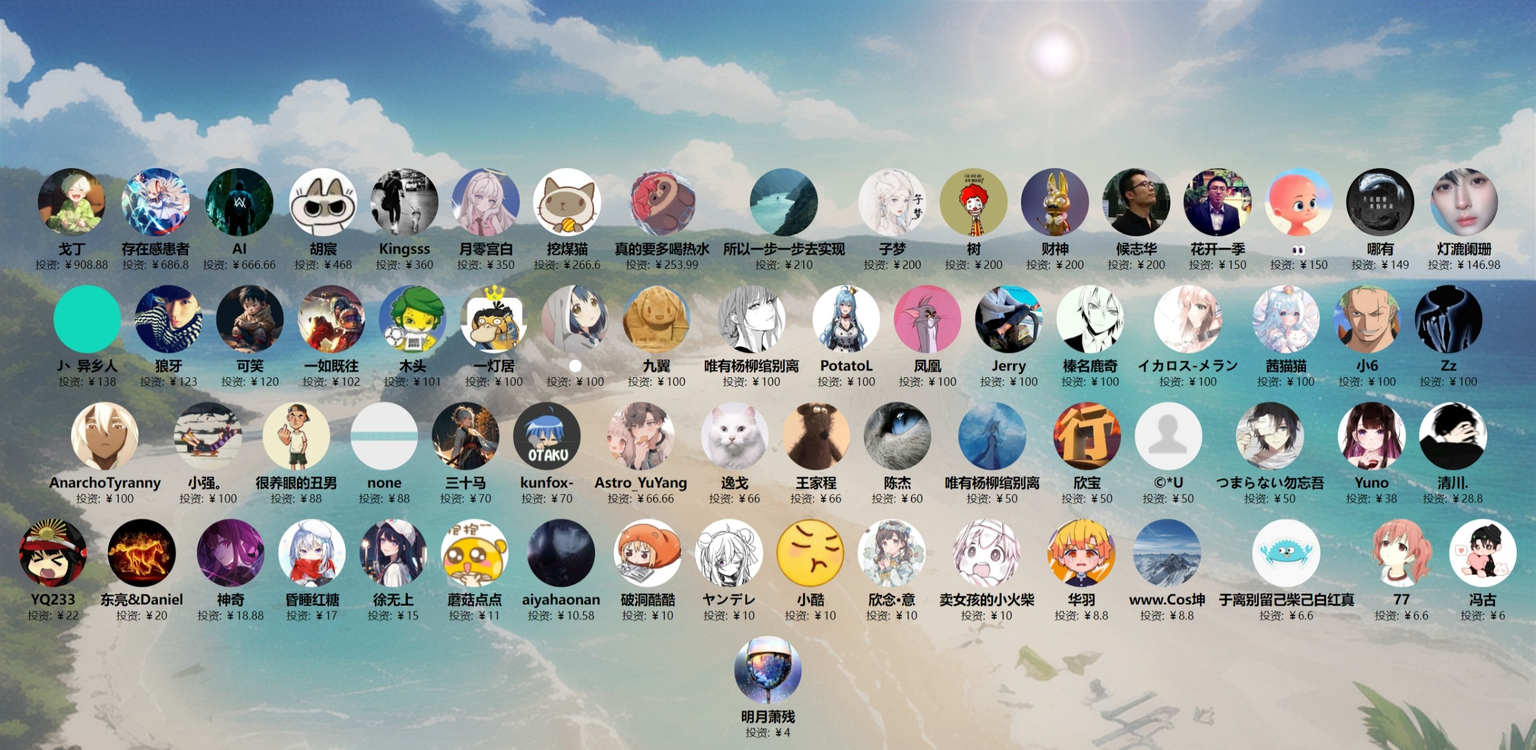
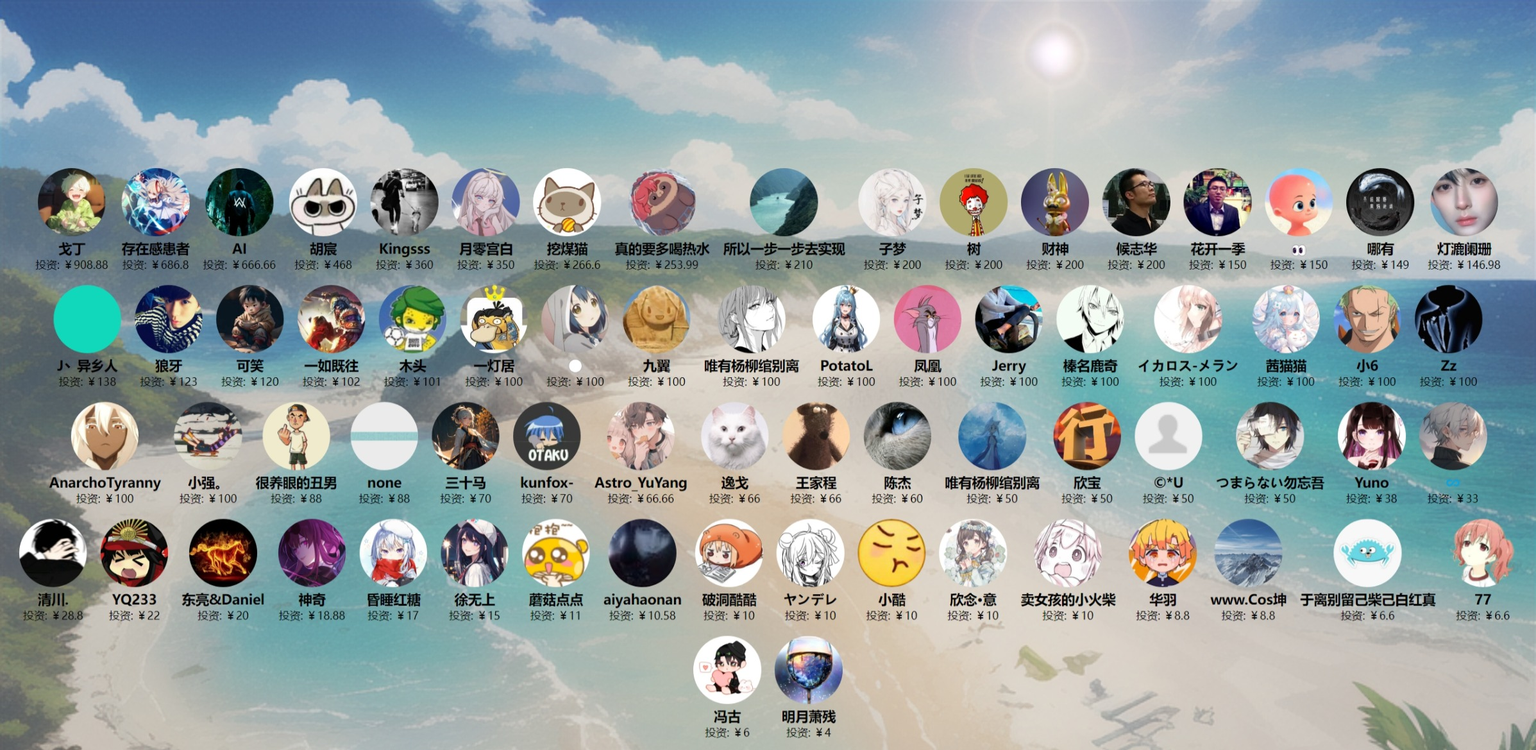
更新投资人

Changed region(s): [[0.0, 0.6775, 0.9887, 0.9855], [0.9269, 0.5235, 0.9887, 0.6775]]

diff --git a/docs/投资人/index.html b/docs/投资人/index.html
@@ -297,6 +297,11 @@
             amount: "￥38"
         },
         {
+            name: "♾",
+            avatar: "https://images.cnblogs.com/cnblogs_com/ikaros-521/2328032/o_231219144349_QQ%E5%9B%BE%E7%89%8720231219220916.jpg",
+            amount: "￥33"
+        },
+        {
             name: "清川.",
             avatar: "https://images.cnblogs.com/cnblogs_com/ikaros-521/2328032/o_231219135755_QQ%E5%9B%BE%E7%89%8720231219215738.jpg",
             amount: "￥28.8"
